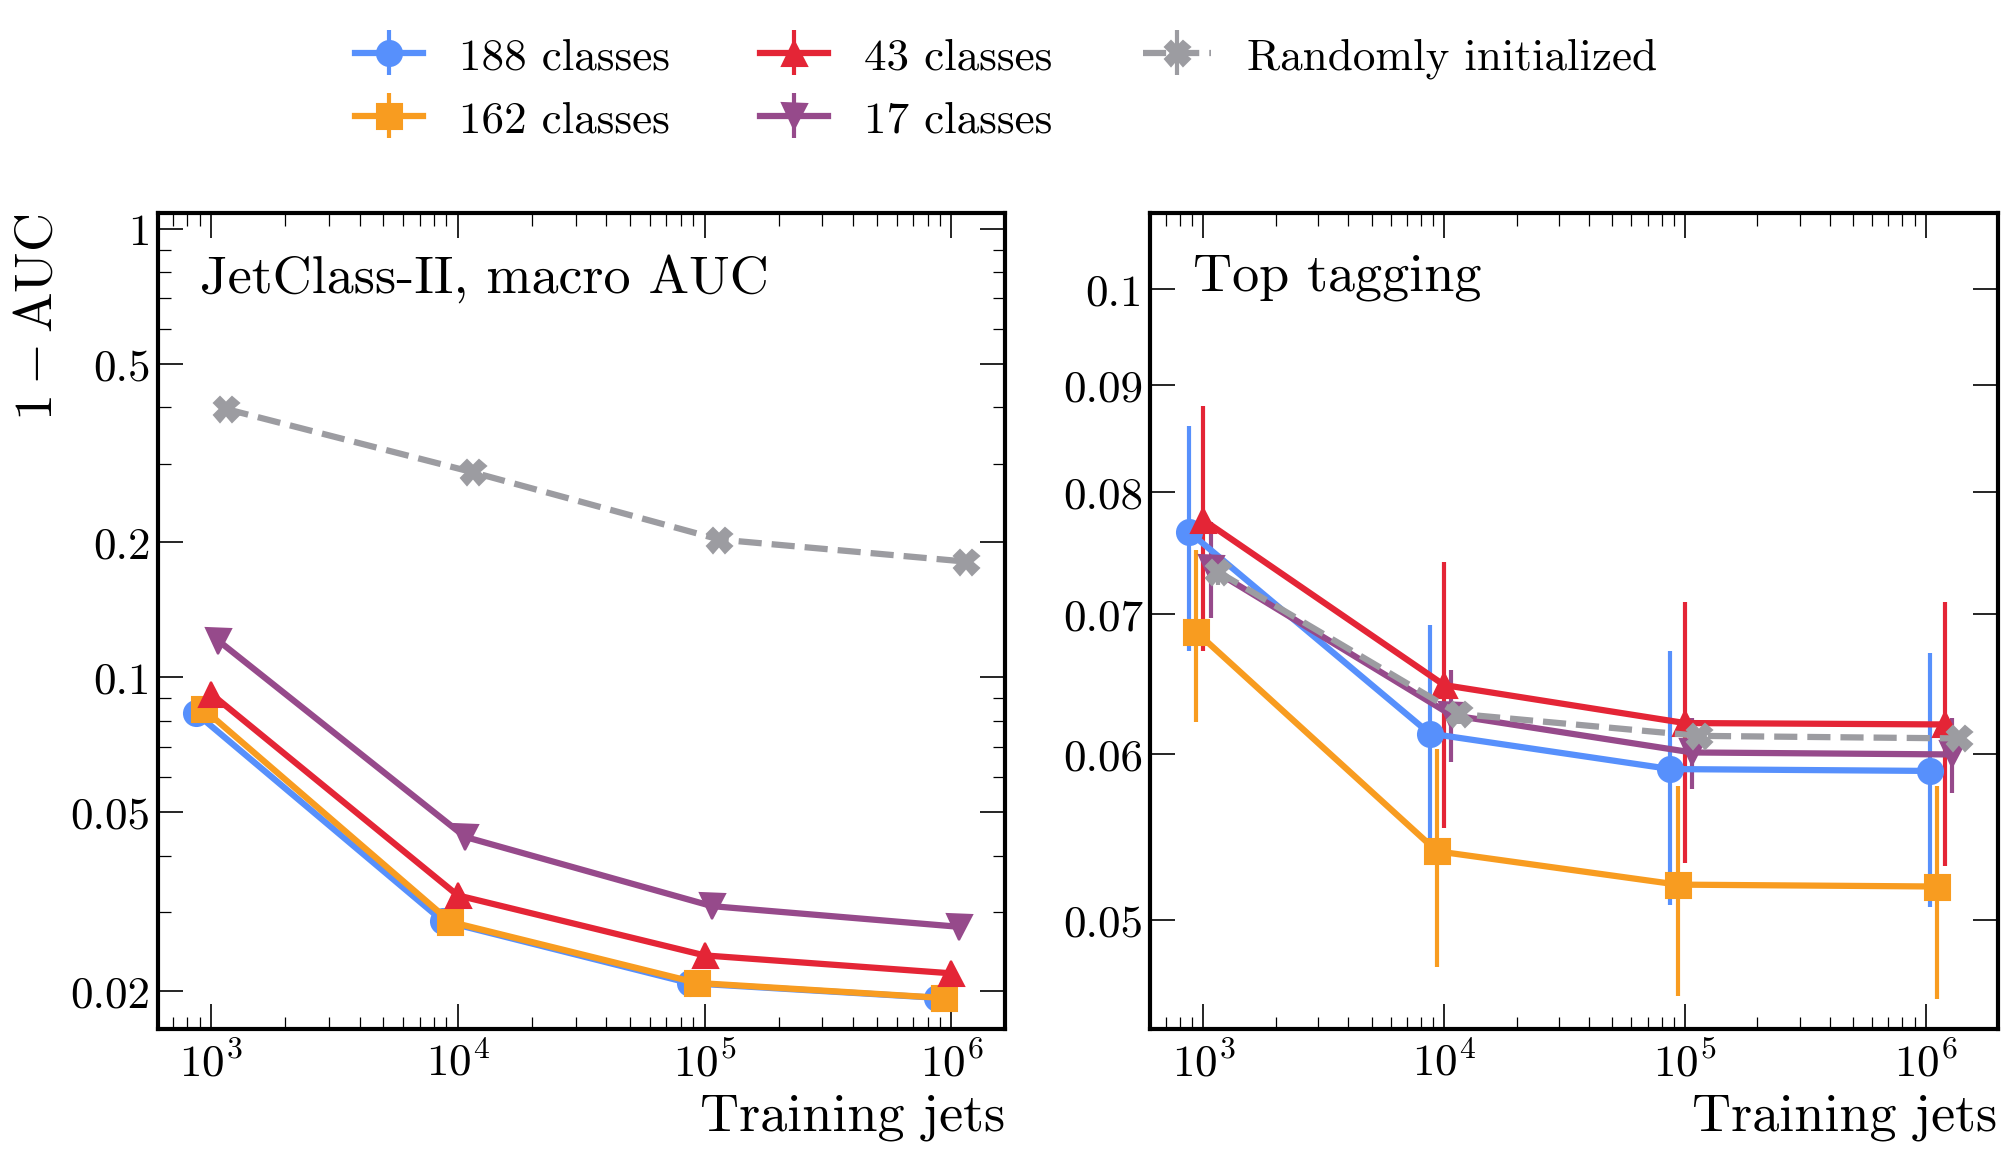
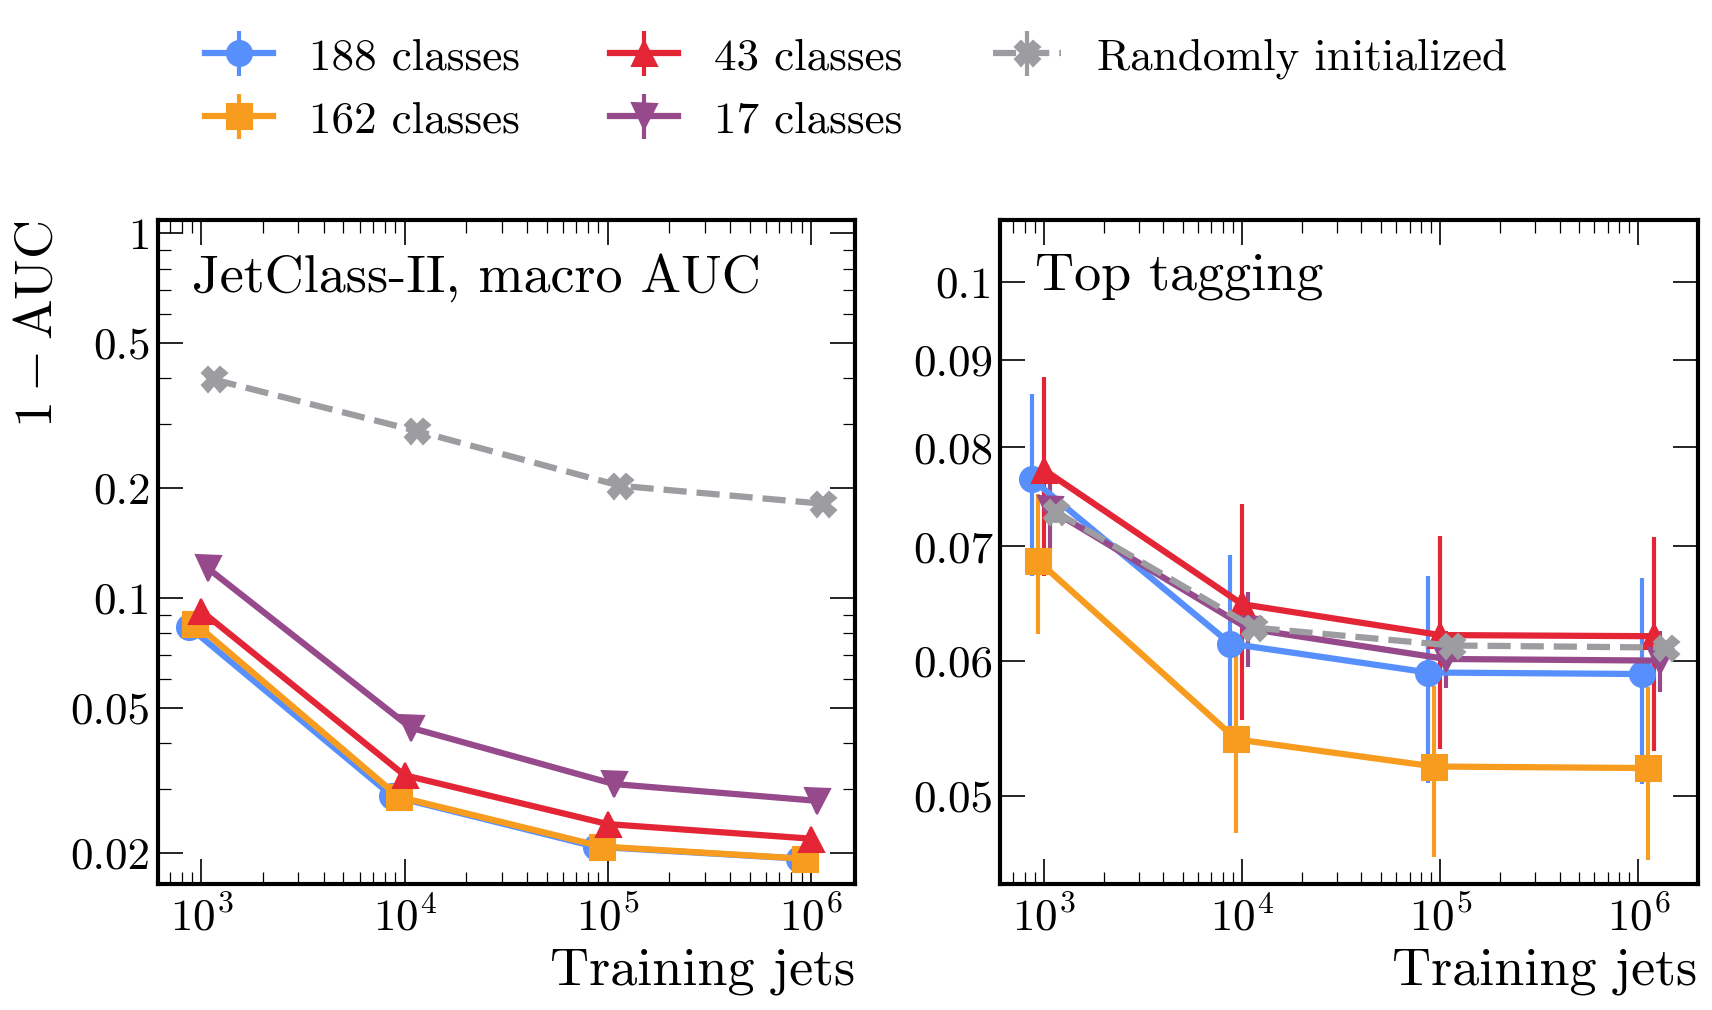
figure text at print size

diff --git a/experiments/FIGS/mlst_style.py b/experiments/FIGS/mlst_style.py
@@ -15,7 +15,7 @@ it. Matplotlib ships Computer Modern (cmr10) and draws mathematics in it (mathte
 no LaTeX installation is needed on the laptop or in the cluster image.
 
 The encoding is fixed here: the label sets of the hierarchy take the first four colours of
-the sequence, finest first, and the randomly initialized network its grey. A panel is 7 in
+the sequence, finest first, and the randomly initialized network its grey. A panel is 6 in
 (PANEL); the paper scales a figure to the text width.
 
 experiments/FIGS/style.py stays as it is: the earlier figure scripts and their tests use it.
@@ -36,10 +36,11 @@ PETROFF6 = ["#5790fc", "#f89c20", "#e42536", "#964a8b", "#9c9ca1", "#7a21dd"]
 LEVEL_COLOURS = {188: PETROFF6[0], 162: PETROFF6[1], 43: PETROFF6[2], 17: PETROFF6[3]}
 LEVEL_MARKERS = {188: "o", 162: "s", 43: "^", 17: "v"}
 INIT_STYLE = {"color": PETROFF6[4], "marker": "X", "linestyle": "--"}
-# The style's text is 26 pt. A figure is printed at the text width (360 pt in the draft's
-# 11-pt article class), so two panels of 7 in print that text at about 9 pt, the size of the
-# caption; the style's own 10 in panels would print it at about 6.5 pt.
-PANEL = 7.0
+# The style's text is 26 pt and its tick labels and legend 21.7 pt ('small'). A figure is
+# printed at the text width (360 pt in the draft's 11-pt article class); with two panels of
+# 6 in that prints the axis labels at about 11 pt, the size of the text, and the tick labels
+# and legend at about 9 pt. The style's own 10 in panels would print them at 6-7 pt.
+PANEL = 6.0
 # Line width of the MPGAN paper's final figures (mnist_graph_gan jets/final_plots.py,
 # line_opts linewidth 3); the style leaves it at matplotlib's default.
 LINEWIDTH = 3
